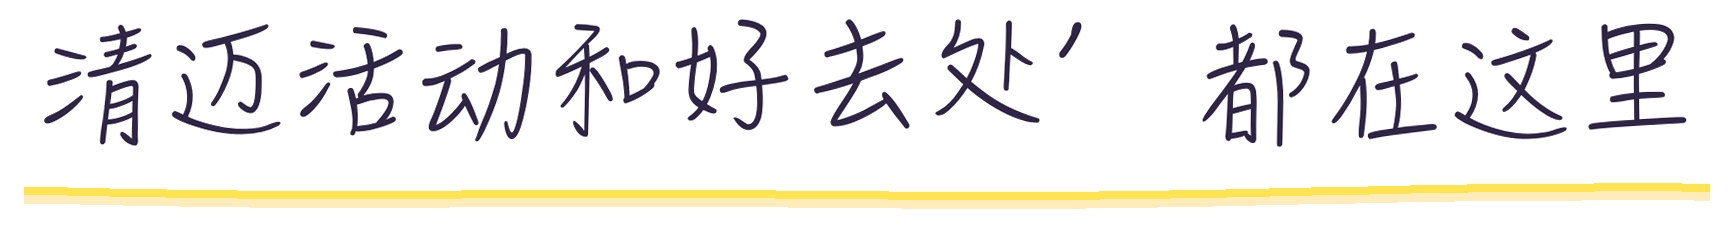
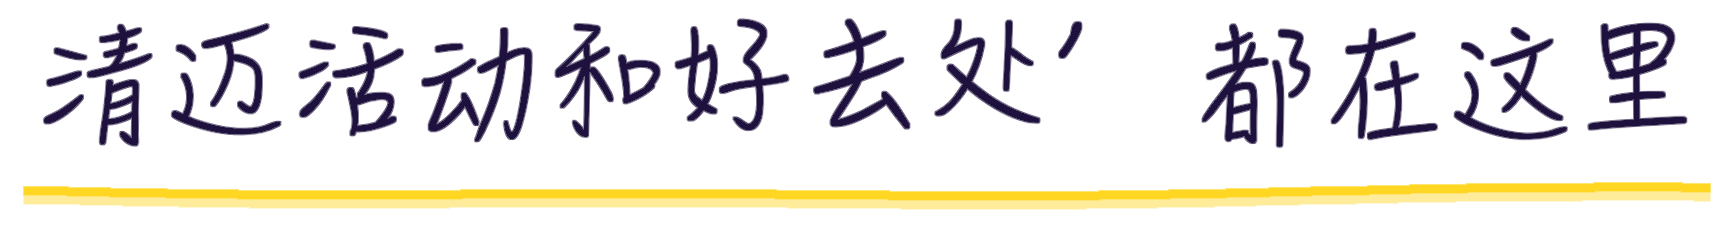
Strengthen CMI map slogan artwork

diff --git a/src/lib/cmi-event-share-card.ts b/src/lib/cmi-event-share-card.ts
@@ -27,7 +27,7 @@ const POSTER_RADIUS = 38;
 const MODULE_GAP = 28;
 const FONT_FAMILY = '"PingFang SC", "Noto Sans SC", "Microsoft YaHei", system-ui, sans-serif';
 const MAP_QR_URL = '/cmi-home/qr-cmi-map-root.png';
-const SLOGAN_ART_URL = '/cmi-home/cmi-map-slogan-handwritten.png';
+const SLOGAN_ART_URL = '/cmi-home/cmi-map-slogan-handwritten.png?v=20260528-strong';
 const MAP_URL_LABEL = '扫码报名参加';
 const INTRO_FONT = `1000 54px ${FONT_FAMILY}`;
 const INTRO_LINE_HEIGHT = 68;

diff --git a/src/pages/CmiEventDetail.tsx b/src/pages/CmiEventDetail.tsx
@@ -440,7 +440,7 @@ export default function CmiEventDetail() {
             CMI Map
           </h1>
           <img
-            src="/cmi-home/cmi-map-slogan-handwritten.png"
+            src="/cmi-home/cmi-map-slogan-handwritten.png?v=20260528-strong"
             alt="清迈活动和好去处，都在这里"
             className="mt-3 h-auto w-[82%] max-w-[420px]"
             loading="eager"
